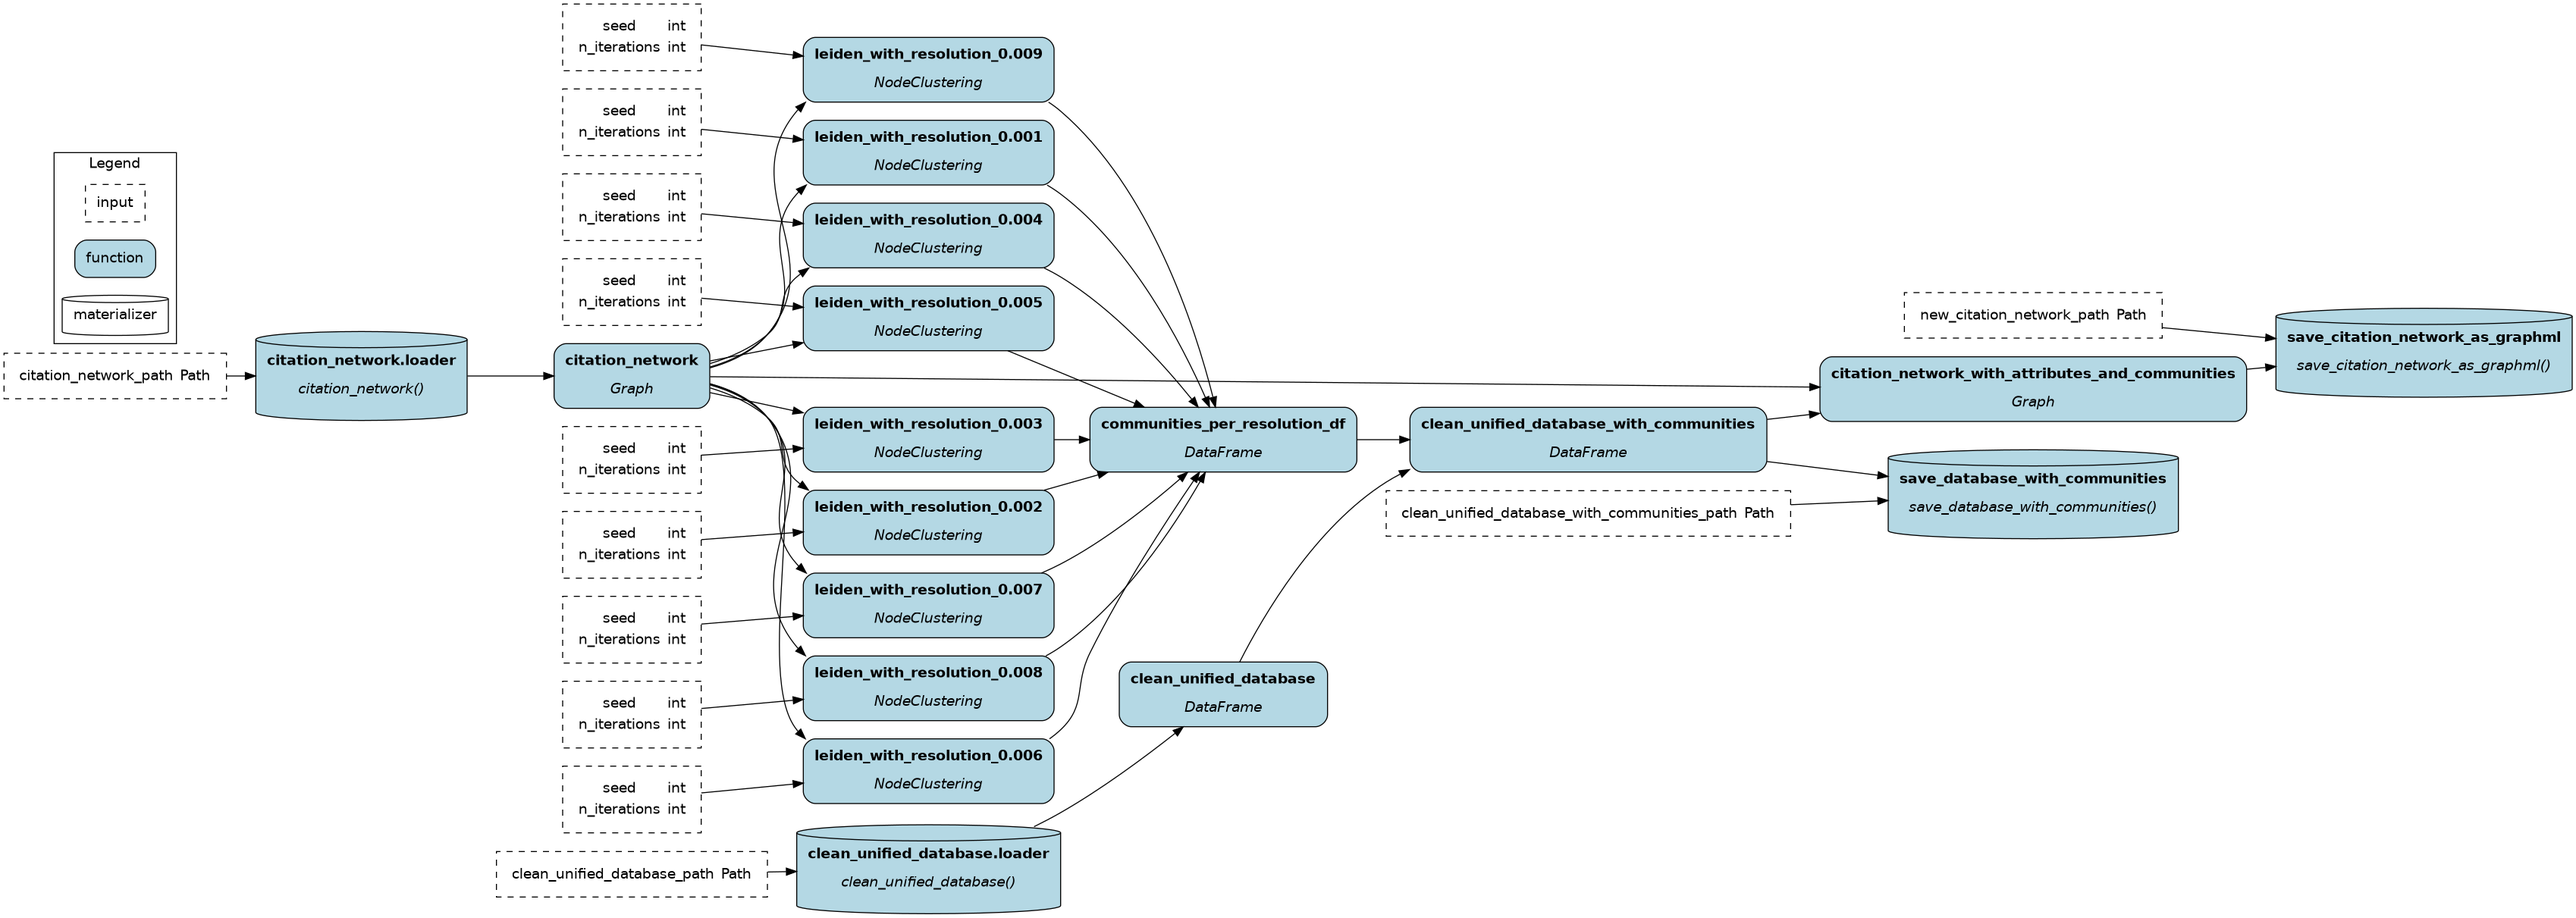
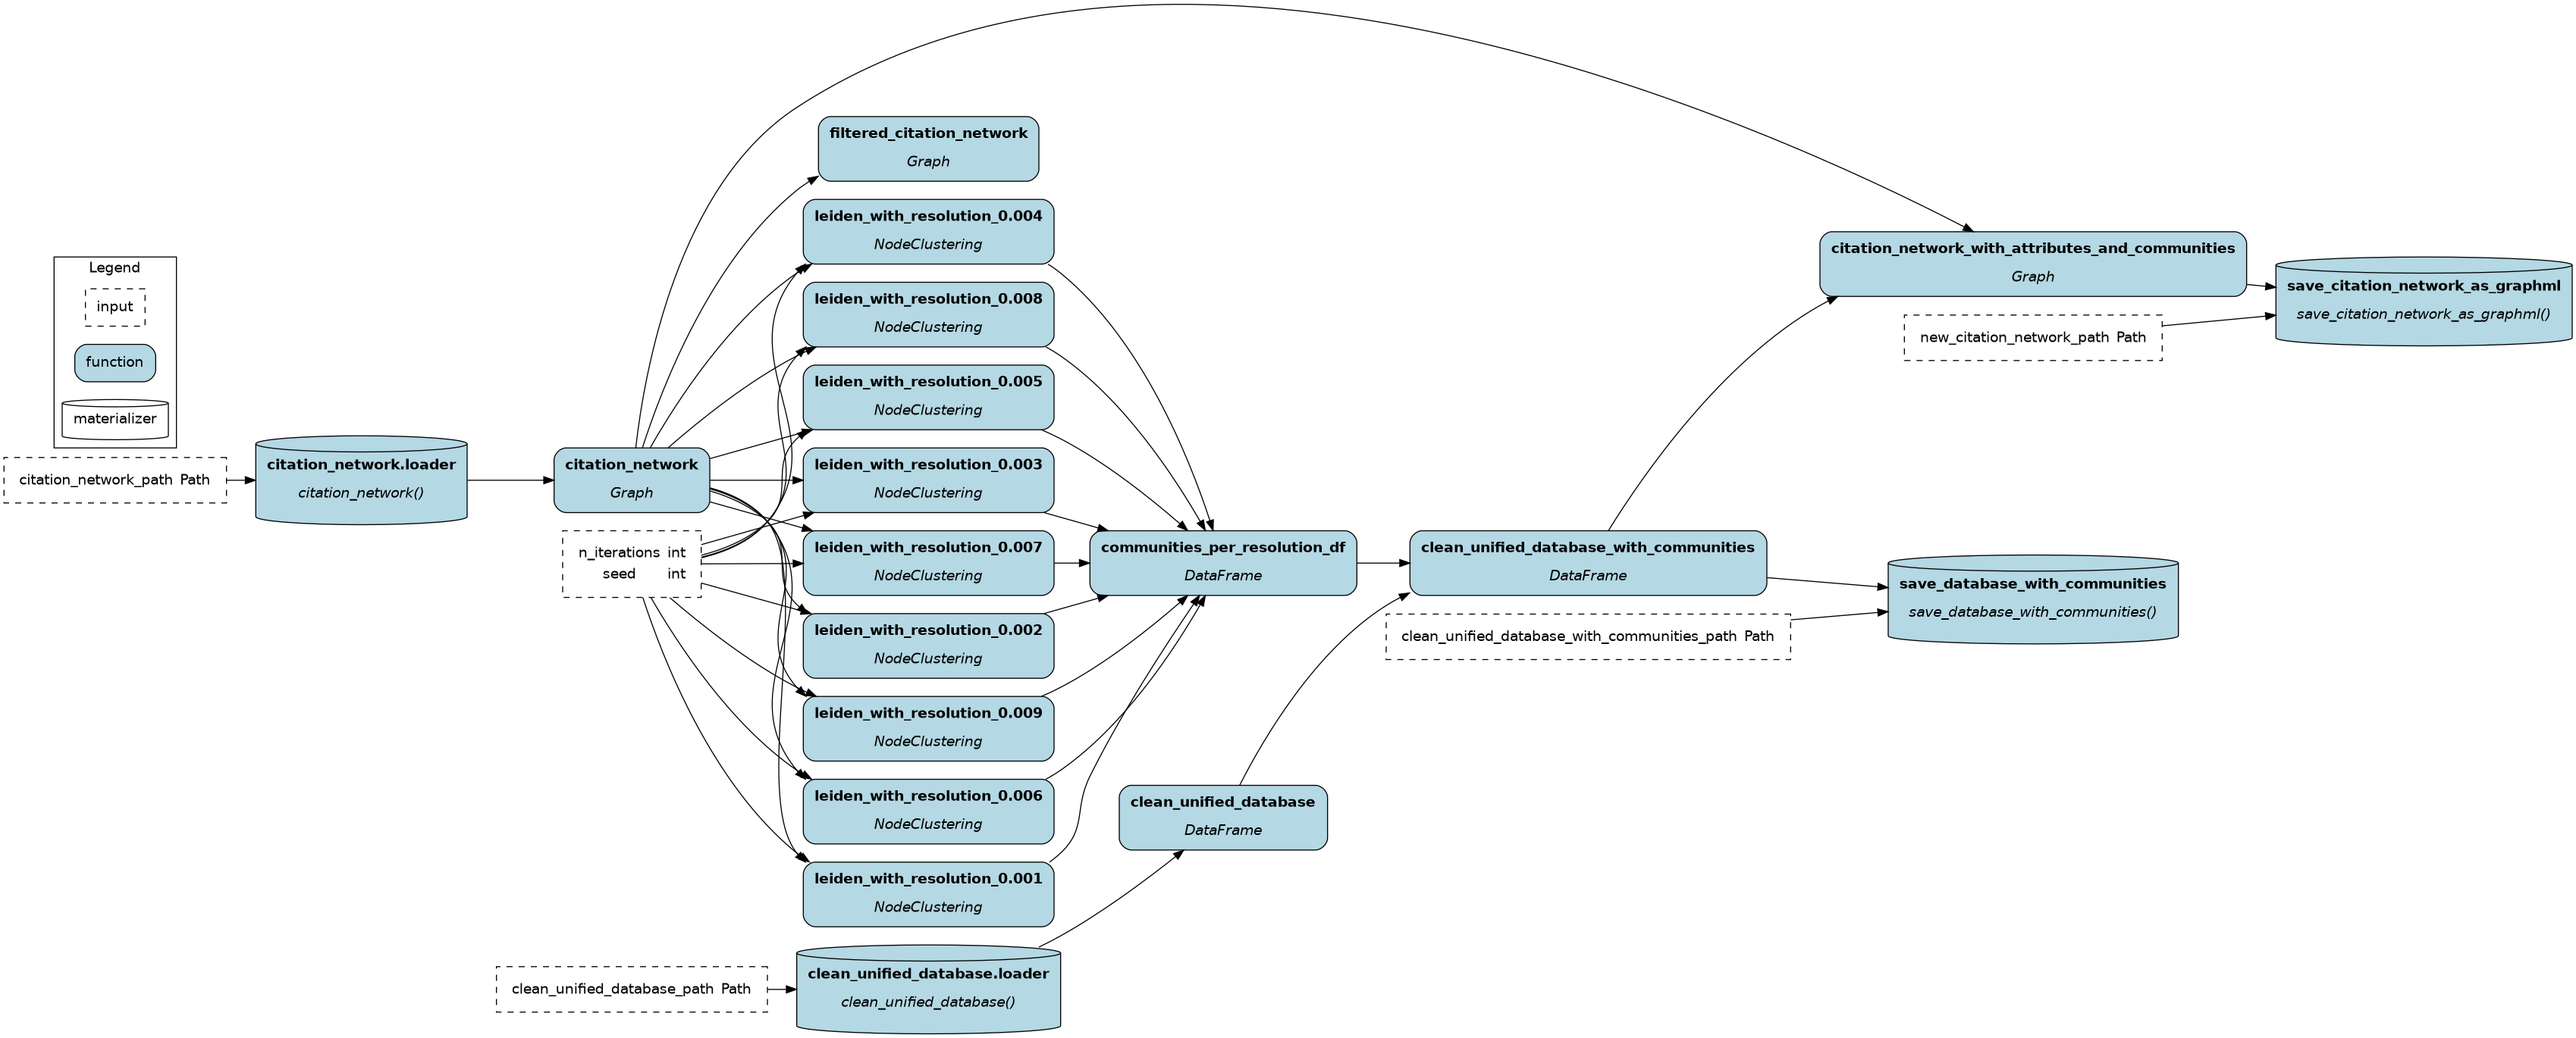
feat(pipelines): add degree-based node filtering to communities pipeline
New filtered_citation_network node drops nodes below the 20th percentile of
total degree and saves a zoomed degree-distribution figure showing the cut.
Driver outputs currently point at this node only (an exploration run of the
filter); the save nodes are commented out. Updated DAG figures included.

diff --git a/motor_learning_network/get_network_communities_and_stats.py b/motor_learning_network/get_network_communities_and_stats.py
@@ -1,4 +1,5 @@
 import leidenalg
+import matplotlib.pyplot as plt
 import numpy as np
 import pandas as pd
 import cdlib
@@ -59,7 +60,11 @@ def _main() -> int:
         clean_unified_database_with_communities_path=GRAPH_LEVEL_DATA_PATH / "clean_unified_database_with_communities_low_res.parquet",
         new_citation_network_path=GRAPH_LEVEL_DATA_PATH / "citation_network_full_low_res.graphml",
     )
-    outputs = ["save_citation_network_as_graphml", "save_database_with_communities"]
+    outputs = [
+                # "save_citation_network_as_graphml",
+                # "save_database_with_communities",
+                "filtered_citation_network"
+                ]
     # outputs = [f"leiden_with_resolution_{resolution}" for resolution in resolutions]
     import __main__
     dr = (
@@ -94,6 +99,36 @@ def citation_network(citation_network_path: Path) -> tuple[ig.Graph, dict]:
     citation_network = ig.Graph.Read(citation_network_path)
     metadata = utils.get_file_metadata(citation_network_path)
     return citation_network, metadata
+
+def filtered_citation_network(citation_network: ig.Graph) -> ig.Graph:
+    degrees = citation_network.degree(mode='all',loops=False)
+    p05 = np.percentile(degrees, 20)# --- 1. Save the zoomed plot of the distribution ---
+    # Create discrete bins centered exactly on integer degrees
+    min_deg, max_deg = min(degrees), max(degrees)
+    discrete_bins = np.arange(min_deg, max_deg + 2) - 0.5
+    # Added edgecolors so individual bars are distinct
+    plt.hist(degrees, bins=discrete_bins, edgecolor='black', color='skyblue')
+    # Add a vertical line representing the low-degree cut
+    plt.axvline(x=p05, color='red', linestyle='dashed', linewidth=2, label=f'5th Percentile Cut ({p05:.1f})')
+    plt.legend()
+    # ZOOM: Restrict the x-axis to focus on the lowest degrees (e.g., from minimum degree up to the cut + 5)
+    zoom_right = p05 + 50
+    plt.xlim(min_deg - 1, zoom_right)
+    # Force the x-axis to only display integer ticks within our zoomed view
+    plt.xticks(np.arange(min_deg, int(zoom_right) + 1))
+    # Add titles/labels for clarity
+    plt.title("Zoomed Degree Distribution (Low-Degree Cut)")
+    plt.xlabel("Total Degree")
+    plt.ylabel("Node Count")
+    # Save and close
+    plt.savefig(FIGURES_PATH/f'{CURRENT_FILE_NAME}_degree_distribution.png', dpi=300, bbox_inches='tight')
+    plt.close()
+    nodes_to_delete = [v.index for v, d in zip(citation_network.vs, degrees) if d < p05]
+    citation_network.delete_vertices(nodes_to_delete)
+    logger.info(f"95th Percentile Cutoff: {p05:.1f} degrees")
+    logger.info(f"Deleted {len(nodes_to_delete)} nodes.")
+    logger.info(f"Nodes remaining in graph: {citation_network.vcount()}")
+    return 
 
 @parameterize(**{f"leiden_with_resolution_{resolution}": {"resolution": value(resolution)} for resolution in resolutions})
 def leiden_cpm_communities(citation_network: ig.Graph, resolution: list[float], n_iterations: int, seed: int) -> cdlib.NodeClustering:
@@ -171,7 +206,7 @@ def citation_network_with_attributes_and_communities(citation_network: ig.Graph,
 
 @datasaver()
 def save_citation_network_as_graphml(citation_network_with_attributes_and_communities: ig.Graph, new_citation_network_path: Path) -> dict:
-    """Persist the igraph citation network as a pickle file."""
+    """Persist the igraph citation network as a graphml file."""
     citation_network_with_attributes_and_communities.write(new_citation_network_path)
     metadata = utils.get_file_metadata(new_citation_network_path)
     return metadata
